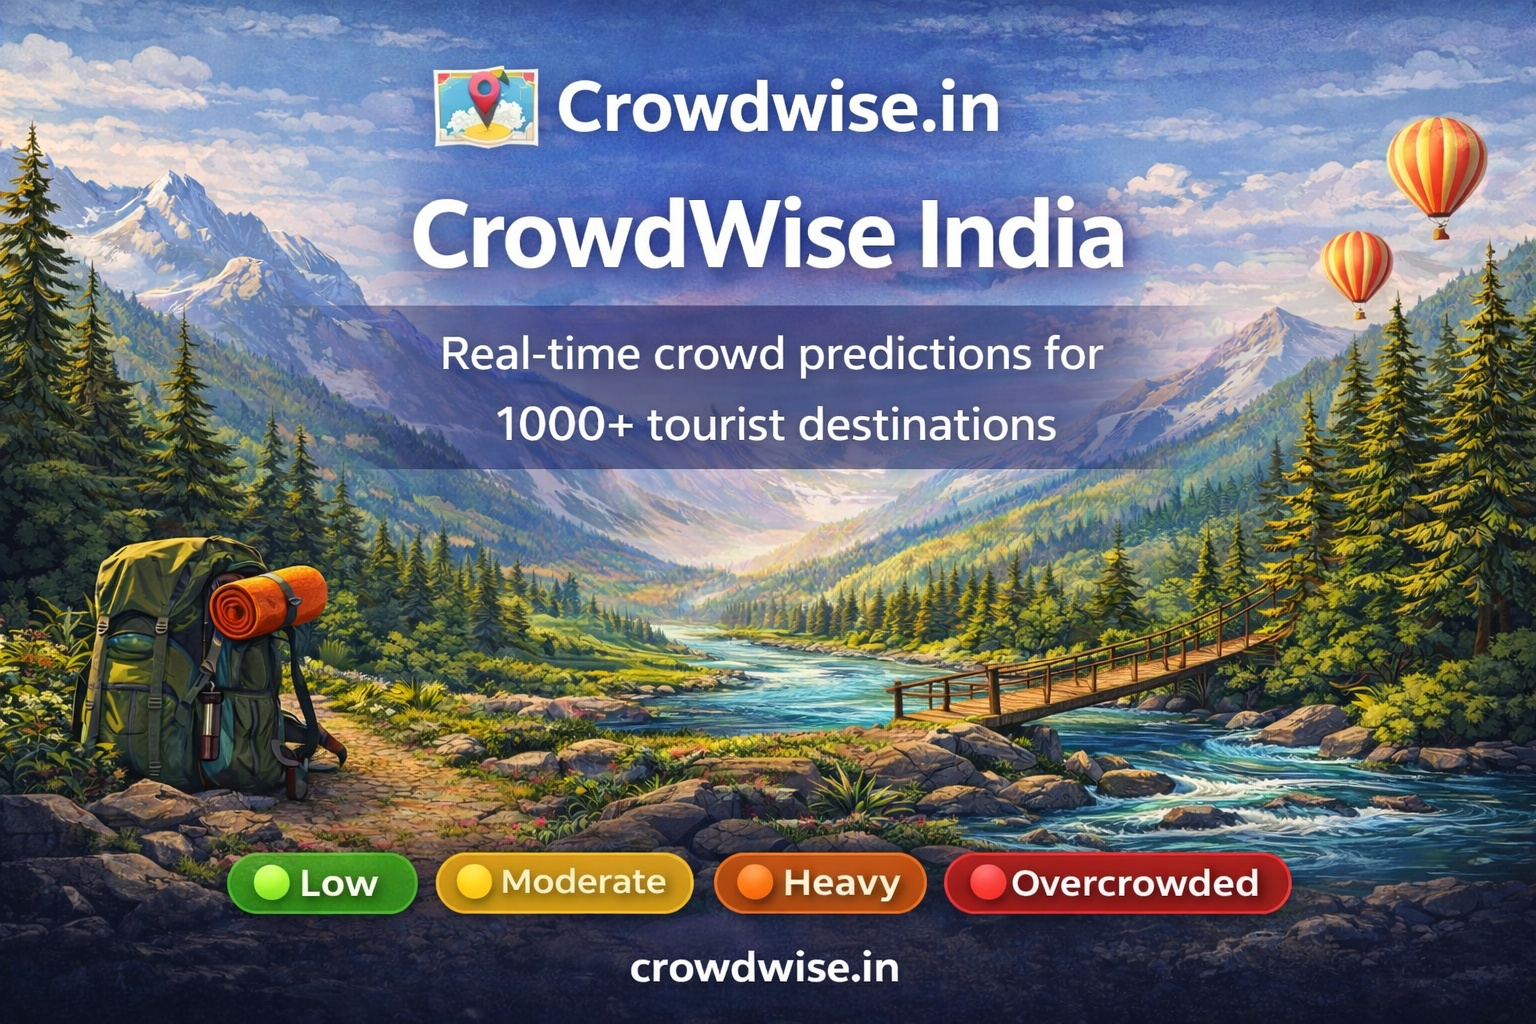
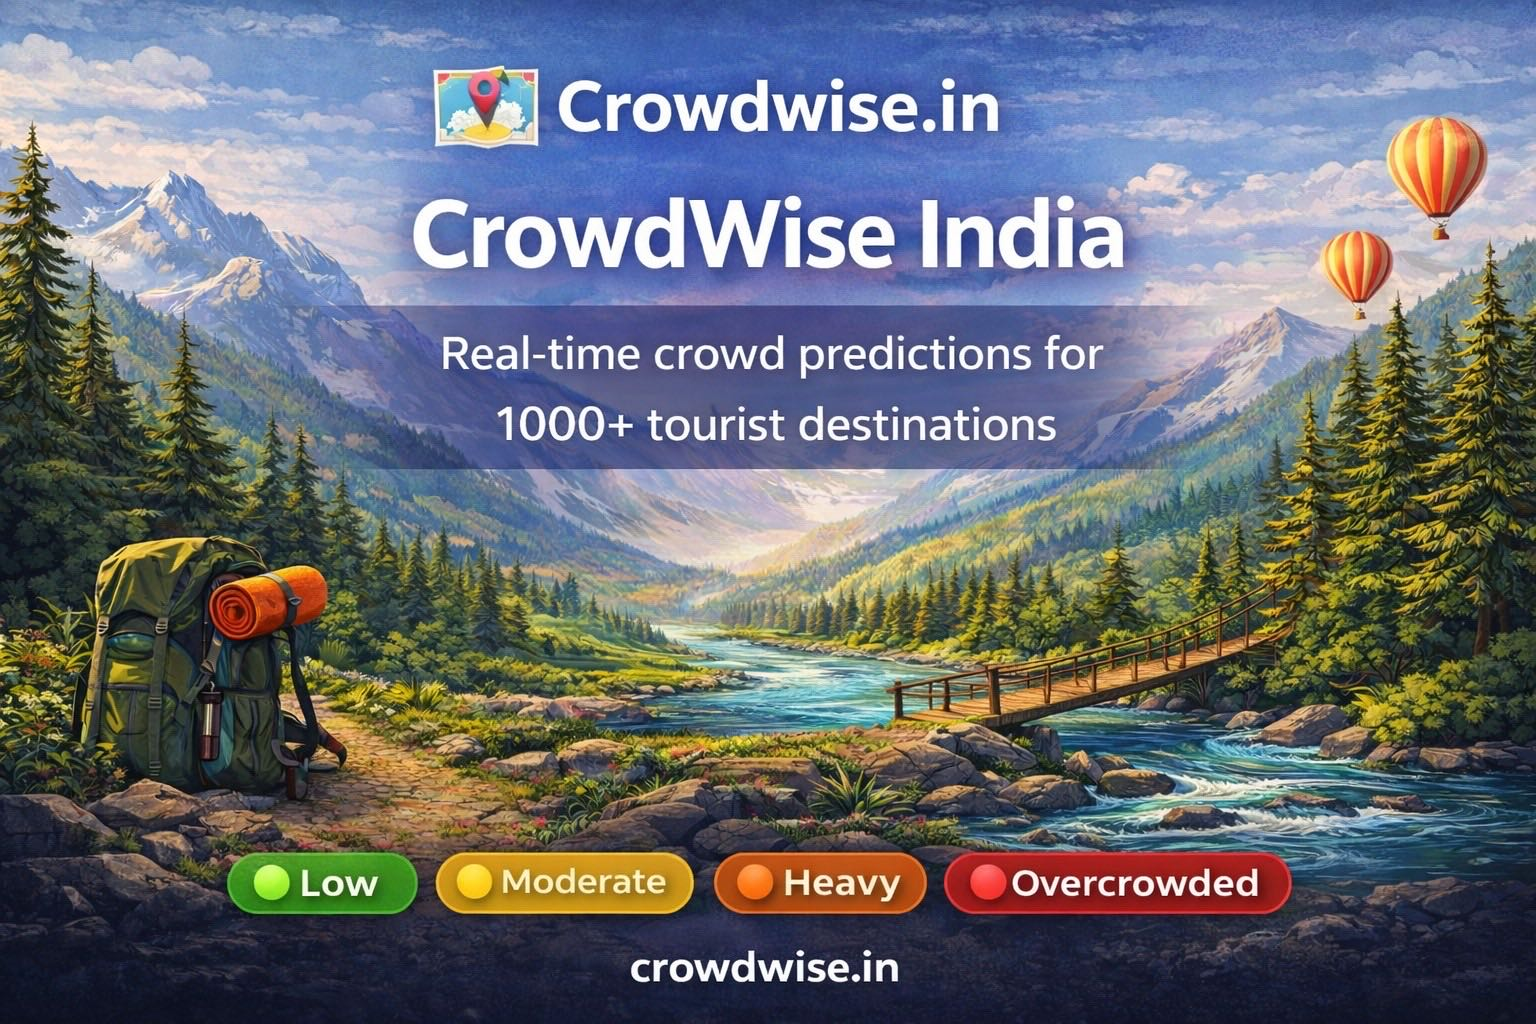
fix: compress og-image.jpg to 291KB for WhatsApp crawler + add og:image:width/height/type tags

diff --git a/index.html b/index.html
@@ -19,6 +19,9 @@
     <meta property="og:title" content="CrowdWise India - Avoid Tourist Crowds with Real-Time Predictions">
     <meta property="og:description" content="Free crowd predictions for 1047 Indian destinations across 38 states. Know before you go - check real-time crowd levels at Taj Mahal, Jaipur, Goa & more.">
     <meta property="og:image" content="https://crowdwise.in/og-image.jpg">
+    <meta property="og:image:width" content="1536">
+    <meta property="og:image:height" content="1024">
+    <meta property="og:image:type" content="image/jpeg">
     <meta property="og:site_name" content="CrowdWise India">
     
     <!-- Twitter Card -->
@@ -26,7 +29,7 @@
     <meta property="twitter:url" content="https://crowdwise.in">
     <meta property="twitter:title" content="CrowdWise India - Real-Time Crowd Predictions for Indian Destinations">
     <meta property="twitter:description" content="Free crowd predictions for 1047 destinations across India. Plan your visit to avoid crowds at Taj Mahal, Jaipur, Goa & more.">
-    <meta property="twitter:image" content="https://crowdwise.in/twitter-image.jpg">
+    <meta property="twitter:image" content="https://crowdwise.in/og-image.jpg">
     
     <!-- Geo Tags -->
     <meta name="geo.region" content="IN">
